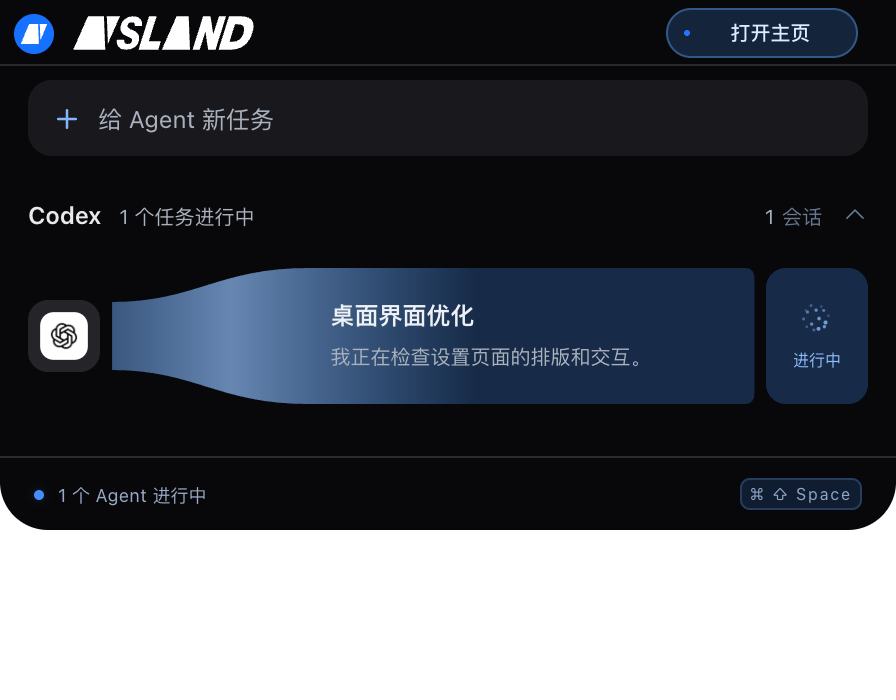
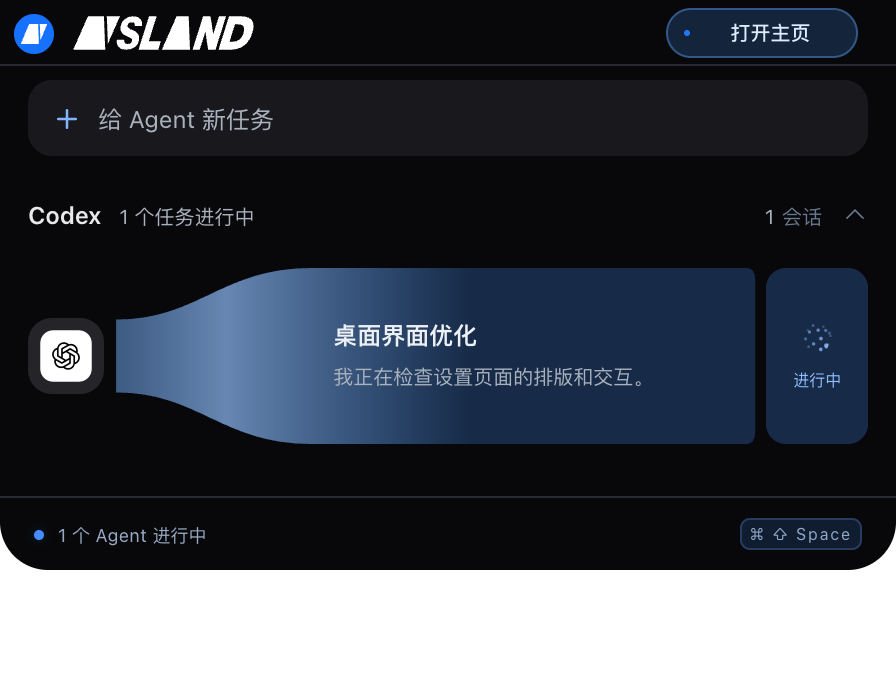
Publish adaptive branch layout and 0.3.30 downloads

Changed region(s): [[0.0, 0.42, 1.0, 0.84], [0.2188, 0.39, 0.2812, 0.42]]

diff --git a/public/docs/index.html b/public/docs/index.html
@@ -1,7 +1,7 @@
-<!doctype html><html lang="zh-CN"><head><meta charset="utf-8"><meta name="viewport" content="width=device-width,initial-scale=1"><title>使用文档 — AISLAND</title><meta name="description" content="AISLAND 的安装、快速体验、Node.js 与 Python 接入、审批安全和本地数据说明。"><meta name="theme-color" content="#ffffff"><link rel="canonical" href="https://calibg.github.io/agent-island/docs/"><link rel="icon" href="../assets/icon.svg?v=integrations-29" type="image/svg+xml"><link rel="stylesheet" href="../marketing.css"><link rel="stylesheet" href="../docs.css"><script src="../site.js" defer></script></head><body class="landing">
-<a class="skip-link" href="#main">跳到文档内容</a><header class="header"><div class="container header-inner"><a class="brand" href="../"><img src="../assets/wordmark.svg?v=integrations-29" width="150" height="28" alt="AISLAND"></a><nav class="nav" id="navigation" aria-label="主导航"><a href="../#product">产品体验</a><a href="../#connect">通用接入</a><a href="./" aria-current="page">使用文档</a></nav><a class="nav-download" href="../#download">下载体验 <span aria-hidden="true">↗</span></a><button class="menu-toggle" aria-expanded="false" aria-controls="navigation" aria-label="展开导航"><span></span><span></span></button></div></header>
+<!doctype html><html lang="zh-CN"><head><meta charset="utf-8"><meta name="viewport" content="width=device-width,initial-scale=1"><title>使用文档 — AISLAND</title><meta name="description" content="AISLAND 的安装、快速体验、Node.js 与 Python 接入、审批安全和本地数据说明。"><meta name="theme-color" content="#ffffff"><link rel="canonical" href="https://calibg.github.io/agent-island/docs/"><link rel="icon" href="../assets/icon.svg?v=adaptive-30" type="image/svg+xml"><link rel="stylesheet" href="../marketing.css"><link rel="stylesheet" href="../docs.css"><script src="../site.js" defer></script></head><body class="landing">
+<a class="skip-link" href="#main">跳到文档内容</a><header class="header"><div class="container header-inner"><a class="brand" href="../"><img src="../assets/wordmark.svg?v=adaptive-30" width="150" height="28" alt="AISLAND"></a><nav class="nav" id="navigation" aria-label="主导航"><a href="../#product">产品体验</a><a href="../#connect">通用接入</a><a href="./" aria-current="page">使用文档</a></nav><a class="nav-download" href="../#download">下载体验 <span aria-hidden="true">↗</span></a><button class="menu-toggle" aria-expanded="false" aria-controls="navigation" aria-label="展开导航"><span></span><span></span></button></div></header>
 <div class="container docs-layout"><aside class="docs-sidebar" aria-label="文档目录"><p class="eyebrow">GETTING STARTED</p><a href="#install">安装与打开</a><a href="#first-use">第一次体验</a><a href="#desktop-agents">桌面 Agent 与启动设置</a><a href="#quickstart">接入你的 Agent</a><a href="#approvals">审批与问答</a><a href="#capabilities">当前支持范围</a><a href="#privacy">数据与隐私</a><a href="#troubleshooting">常见问题</a><a href="./protocol.md">完整 HTTP 协议 ↗</a></aside>
-<main class="docs-content" id="main"><p class="eyebrow">AISLAND / DOCUMENTATION</p><h1>从这里，开始登岛。</h1><p class="docs-lead">安装应用，体验小岛，再把你自己的 Agent 接进来。<br>适用于 v0.3.29 预览版。</p>
+<main class="docs-content" id="main"><p class="eyebrow">AISLAND / DOCUMENTATION</p><h1>从这里，开始登岛。</h1><p class="docs-lead">安装应用，体验小岛，再把你自己的 Agent 接进来。<br>适用于 v0.3.30 预览版。</p>
 <section id="install"><h2>安装与打开</h2><p>应用本身不需要 Node.js 或 Python。Claude Code、Codex、WorkBuddy、Antigravity 的 Hooks 需要 Python 3.9+；对应 SDK 需要 Node.js 20+ 或 Python 3.9+。</p><h3>macOS · Apple Silicon</h3><ol><li>从<a href="../#download">下载页面</a>获取 DMG，打开后将 AISLAND 拖入 Applications（应用程序）。</li><li>从应用程序中启动 AISLAND。</li><li>当前提供 M 系列芯片版本，尚未提供 Intel 安装包。</li></ol><p>桌面界面跟随系统明暗模式。macOS 开关使用 AppKit NSSwitch；Windows 设置使用微软官方 Fluent UI React 组件，并保留系统窗口按钮。</p><h3>Windows · x64</h3><ol><li>下载 EXE 安装程序，按提示安装并打开。</li></ol><div class="doc-note"><p>当前是未签名的预览版，尚未完成 Apple Developer ID 公证或 Windows Authenticode 签名。首次打开可能出现系统来源提示，请先确认下载地址和<a href="../download-checksums.txt">文件校验信息</a>。Mac 已完成自动化验证，Windows 安装包已构建，尚待实机验证。</p></div><p>应用常驻菜单栏或系统托盘。关闭管理窗口不会退出应用；如需完全退出，请使用托盘菜单中的「退出」。</p></section>
 <section class="doc-section" id="first-use"><h2>接入 Claude Code</h2><ol><li>启动 AISLAND，打开「工具接入」，点击 Claude Code 的「安装接入」。这一步需要 Python 3.9+。</li><li>在项目终端运行 <code>claude</code>。已启动的会话可重启一次或用 <code>/hooks</code> 检查配置。</li><li>提交真实任务后，小岛显示运行状态；权限确认和问题回答会返回当前 Claude Code 会话。</li></ol><p>保留你已有的 Hooks、模型和权限配置。只有明确确认才允许操作；小岛不在线或请求超时，回到 Claude Code 原有交互。计划确认仍在终端处理。</p><p>快捷键：macOS 为 Cmd + Shift + Space，Windows 为 Ctrl + Shift + Space。</p></section>
 <section id="desktop-agents"><h2>Codex、Antigravity 与接入助手</h2><p>在应用「工具接入」中打开接入助手。先检查 Python 3.9+ 和 Codex，再安装接入配置。助手保留已有配置并备份，不会更改权限策略。</p><h3>Codex 桌面软件</h3><ol><li>点击「安装 Codex 接入」，等待写入完成。</li><li>点击「打开审核终端」，在 Codex 中输入 <code>/hooks</code>，审核并信任「AISLAND · Codex」条目。审核不会自动进行。</li><li>回到小岛点击「重新检查」。显示已启用并信任后，重启 Codex 桌面端并开启新任务。</li></ol><p>支持真实进度、工具调用、权限确认、结束与中断。问答和计划仍在 Codex 中完成。用户级 Hooks 也会被同一配置下的 CLI 加载；小岛跳转唤起桌面软件，不定位具体聊天。</p><h3>Antigravity</h3><p>在对应接入卡片点击安装，重启 Antigravity 并开启新任务。支持进度、工具调用与后台任务状态。权限和问答在 Antigravity 内处理。</p><h3>登录后自动运行</h3><p>「登录后自动启动小岛」与「启动时运行接入检查」是独立开关，默认关闭。前者运行本机服务；后者只读检查环境与 Hooks 状态，发现未完成步骤时显示助手，不自动批准 Hooks。</p><p>应用先放入应用程序目录或通过 Windows 安装程序安装。系统要求批准登录项时，请在系统设置中完成；未签名 macOS 预览包的登录启动可能受系统限制。界面显示系统实际状态，不能等同于已经实测重启。</p><p>「已配置」不代表已经连接。收到真实 Hook 后才显示事件回执。安装脚本与配置不上传网站。</p></section><section class="doc-section" id="quickstart"><h2>接入你的 Agent</h2><p>先启动 AISLAND，再把 SDK 文件复制到你自己的项目。SDK 会读取当前用户目录下的本机连接信息，向应用报告状态。无需第三方依赖，也不需要填写 AI 服务密钥。</p><div class="doc-downloads"><a class="button" href="../sdk/agent-island.mjs" download>下载 Node.js SDK ↓</a><a class="button" href="../sdk/agent_island.py" download>下载 Python SDK ↓</a><a class="button" href="../sdk/example.mjs" download>下载完整 Node.js 示例 ↓</a></div><h3>Node.js</h3><p>将以下代码保存为 <code>connect.mjs</code>，与 <code>agent-island.mjs</code> 放在同一个目录，然后运行 <code>node connect.mjs</code>。</p><pre><code>import { AgentIsland } from './agent-island.mjs';
@@ -33,10 +33,10 @@ if (result.decision === 'allow') {
 } else {
   await island.complete('操作未获批准。');
 }</code></pre><p>审批最多等待约 10 分钟。超时、断线、会话结束、应用退出或重启，都不会自动批准。接入方必须把错误与 <code>cancel</code> 视为未批准，不应在捕获异常后继续执行待确认操作。</p><p>Node.js SDK 还提供 <code>ask()</code>（单选、多选、自定义回答）、<code>plan()</code>（计划与反馈）和 <code>usage()</code>（真实上报的用量）。可下载完整示例体验双向交互。Python 可用 <code>send()</code> 发送协议定义的其他事件。</p></section>
-<section class="doc-section" id="more-agents"><h2>Gemini、Cursor、MiniMax 与智谱</h2><p>v0.3.29 新增 Gemini CLI 与 Cursor 的官方 Hooks 观察接入。在「工具接入」安装后开启新会话，收到任务事件才显示已收到事件。支持任务和工具状态、最终回复；审批与续发仍在原应用完成。Gemini CLI 与 Gemini 网页是不同的接入。</p><p>MiniMax 提供本地 Plugin V1 Hooks 插件：在「工具接入 → MiniMax → 准备插件」打开文件夹，按 README 安装到当前客户端的本地插件目录并启用。导出插件不代表连接成功；当前不支持 MiniMax 原会话续发。MiniMax Design 与云端网页未包含在此适配范围内。</p><p>智谱 GLM 可通过已配置 GLM 的 Claude Code 接入：安装 Claude Code Hooks 后，根据事件明确提供的模型标识显示智谱，仍续发到同一个 Claude Code 会话。不会自动连接智谱清言或 AutoGLM。</p><p>豆包电脑版、Grok 原有对话的状态同步与后台续发目前尚未接通；公开模型 API 不代表可以读取这些产品里的现有对话。应用会明确显示限制。</p><p>新适配器已通过隔离 Hook 进程与本地桥的协议测试；所有新客户端的用户账户实机验收仍待完成。官方参考：<a href="https://geminicli.com/docs/hooks/reference/">Gemini CLI Hooks</a>、<a href="https://cursor.com/docs/hooks">Cursor Hooks</a>、<a href="https://github.com/MiniMax-AI/minimax-code/blob/main/docs/hooks.md">MiniMax Hooks</a>、<a href="https://docs.bigmodel.cn/cn/coding-plan/best-practice/claude-code">智谱接入指南</a>。</p></section><section class="doc-section" id="capabilities"><h2>当前支持范围</h2><div class="table-scroll"><table><thead><tr><th>功能</th><th>v0.3.29 状态</th></tr></thead><tbody><tr><td>桌面小岛、悬停、快捷键、多显示器</td><td>已提供</td></tr><tr><td>Mac 原生刘海定位与 Force Touch 进入反馈</td><td>已提供；触感需支持的触控板</td></tr><tr><td>事件提示音、音量、安静时段、减少动态效果</td><td>已提供</td></tr><tr><td>会话搜索、筛选、活动记录、归档</td><td>已提供</td></tr><tr><td>审批、问答、计划审阅、用量上报</td><td>已提供</td></tr><tr><td>Node.js / Python / HTTP 通用接入</td><td>已提供</td></tr><tr><td>Claude Code Hooks</td><td>状态、权限确认与问答已提供；计划确认在终端</td></tr><tr><td>Codex / Antigravity</td><td>真实 Hooks 接入；具体能力与首次信任见上文</td></tr><tr><td>接入助手与启动检查</td><td>环境检查、官方信任状态、用户自行选择登录启动</td></tr><tr><td>厂商账户额度自动采集、SSH、手机推送、自动更新</td><td>未提供</td></tr></tbody></table></div><p>应用采用 Electron + React 与 macOS 原生面板模块。Mac 读取刘海安全区并从下沿展开；Windows 从屏幕顶部中央展开，外接屏无需物理刘海。AISLAND 为独立实现，不是 Vibe Island 的官方版本。</p></section>
+<section class="doc-section" id="more-agents"><h2>Gemini、Cursor、MiniMax 与智谱</h2><p>v0.3.29 新增 Gemini CLI 与 Cursor 的官方 Hooks 观察接入。在「工具接入」安装后开启新会话，收到任务事件才显示已收到事件。支持任务和工具状态、最终回复；审批与续发仍在原应用完成。Gemini CLI 与 Gemini 网页是不同的接入。</p><p>MiniMax 提供本地 Plugin V1 Hooks 插件：在「工具接入 → MiniMax → 准备插件」打开文件夹，按 README 安装到当前客户端的本地插件目录并启用。导出插件不代表连接成功；当前不支持 MiniMax 原会话续发。MiniMax Design 与云端网页未包含在此适配范围内。</p><p>智谱 GLM 可通过已配置 GLM 的 Claude Code 接入：安装 Claude Code Hooks 后，根据事件明确提供的模型标识显示智谱，仍续发到同一个 Claude Code 会话。不会自动连接智谱清言或 AutoGLM。</p><p>豆包电脑版、Grok 原有对话的状态同步与后台续发目前尚未接通；公开模型 API 不代表可以读取这些产品里的现有对话。应用会明确显示限制。</p><p>新适配器已通过隔离 Hook 进程与本地桥的协议测试；所有新客户端的用户账户实机验收仍待完成。官方参考：<a href="https://geminicli.com/docs/hooks/reference/">Gemini CLI Hooks</a>、<a href="https://cursor.com/docs/hooks">Cursor Hooks</a>、<a href="https://github.com/MiniMax-AI/minimax-code/blob/main/docs/hooks.md">MiniMax Hooks</a>、<a href="https://docs.bigmodel.cn/cn/coding-plan/best-practice/claude-code">智谱接入指南</a>。</p></section><section class="doc-section" id="capabilities"><h2>当前支持范围</h2><p>v0.3.30 的分叉根据任务活动调整高度：活跃任务更突出，暂停、完成和长期无进展的会话更紧凑。左侧图标区域随任务量适度增长，始终小于分支总高度的 2/3。五分钟没有新进展只影响显示空间，不改变任务状态；鼠标操作或输入时固定布局，原有蓝色动效保留。</p><div class="table-scroll"><table><thead><tr><th>功能</th><th>v0.3.30 状态</th></tr></thead><tbody><tr><td>桌面小岛、悬停、快捷键、多显示器</td><td>已提供</td></tr><tr><td>Mac 原生刘海定位与 Force Touch 进入反馈</td><td>已提供；触感需支持的触控板</td></tr><tr><td>事件提示音、音量、安静时段、减少动态效果</td><td>已提供</td></tr><tr><td>会话搜索、筛选、活动记录、归档</td><td>已提供</td></tr><tr><td>审批、问答、计划审阅、用量上报</td><td>已提供</td></tr><tr><td>Node.js / Python / HTTP 通用接入</td><td>已提供</td></tr><tr><td>Claude Code Hooks</td><td>状态、权限确认与问答已提供；计划确认在终端</td></tr><tr><td>Codex / Antigravity</td><td>真实 Hooks 接入；具体能力与首次信任见上文</td></tr><tr><td>接入助手与启动检查</td><td>环境检查、官方信任状态、用户自行选择登录启动</td></tr><tr><td>厂商账户额度自动采集、SSH、手机推送、自动更新</td><td>未提供</td></tr></tbody></table></div><p>应用采用 Electron + React 与 macOS 原生面板模块。Mac 读取刘海安全区并从下沿展开；Windows 从屏幕顶部中央展开，外接屏无需物理刘海。AISLAND 为独立实现，不是 Vibe Island 的官方版本。</p></section>
 <section class="doc-section" id="privacy"><h2>数据与隐私</h2><p>桌面应用的桥接服务只监听 <code>127.0.0.1</code>，不向局域网开放。请求需通过本机令牌验证，并拒绝携带浏览器 Origin 的请求。不要公开或分享 <code>connection.json</code>。</p><p>会话文本与操作预览保存在 <code>~/.agent-island/state.json</code>。记录默认保留 7 天，下次启动时清理过期记录。在偏好设置中可打开数据目录。</p><p>AISLAND 默认只在本机运行，不设置遥测。主动启用手机连接后，进度摘要和手机指令在设备上用 AES-256-GCM 加密，再经过你配置的 Cloudflare Workers / D1 同步；服务端不持有解密密钥。电脑超过 24 小时不再同步时，服务会清理旧连接。手机配对信息保存在设备本地，配对链接相当于访问凭据，不要分享。你所接入的 AI 工具可能有自己的网络行为与数据策略，请以对应工具的设置为准。</p><p>本官网不嵌入分析追踪器，也不设置账户系统。网页由 GitHub Pages 托管，安装包通过 GitHub Releases 分发；访问与下载产生的基础服务日志由 GitHub 按其<a href="https://docs.github.com/en/site-policy/privacy-policies/github-general-privacy-statement">隐私声明</a>处理。</p></section>
 <section class="doc-section" id="mobile"><h2>手机同步与控制</h2><p>自部署用户可下载<a href="https://github.com/CaliBG/agent-island/releases/download/v0.3.0/Agent-Island-Sync-0.1.0.zip">免费同步服务部署包</a>，按其中 README 设置 Workers 和 D1。</p><ol><li>在电脑打开「设置 → 手机与远程」，配置你自己的 Cloudflare Workers 免费同步服务，然后生成配对码。已配置服务的电脑可直接生成二维码。</li><li>手机打开<a href="../mobile/">移动端</a>，扫码或粘贴配对链接。二维码仅用于配对，有效期 10 分钟。</li><li>iPhone 可通过 Safari「分享 → 添加到主屏幕」免费使用。Android 可从官网下载 APK 安装；原生预览版尚待真机验证。</li><li>按需在电脑分别允许「发送 Agent 任务」「调整保持唤醒」「打开远程控制软件」。三项默认关闭。</li></ol><p>前台约 5 秒刷新，手机进入后台后暂停轮询。电脑需运行 AISLAND 并联网；离线时只能查看最后同步的数据。发送后的“已排队”不等于执行成功，请以电脑返回的回执为准。保持唤醒不会解除手动锁屏，远程软件仍使用自身的登录和验证。</p><p>同步后端使用 Workers / D1 免费额度，超额时可能暂停，不会自动升级付费。AI 工具本身的订阅、额度以及第三方远程软件的收费由各厂商决定。iOS 原生工程已编译验证，尚未提供 App Store / TestFlight 安装。</p></section>
 <section class="doc-section" id="task-input"><h2>从小岛发送任务</h2><p>点击「给 Agent 新任务」，选择 Agent 和原对话；鼠标靠近分支右侧的状态按钮会自动弹出输入气泡；点击输入框后取得键盘焦点，已结束的会话也可正常输入。Codex、Claude Code 支持原会话续发，保留上下文；运行中可以排队发送，任务完成后自动续发，每个会话最多一条，可撤回编辑。应用重启或当前任务异常后，队列会暂停，需确认后重新提交。</p><p>Codex 使用官方 app-server 恢复同一个会话，桌面客户端可能需要重新打开对话才能显示新内容；Claude Code 使用官方 Agent SDK。两者沿用本机已有登录，不要求另外填写 API Key。需要审批时，在小岛逐次确认。</p></section>
 <section class="doc-section" id="workbuddy"><h2>接入 WorkBuddy</h2><ol><li>打开「设置 → Agent 接入 → WorkBuddy → 接入」。</li><li>在 WorkBuddy 审核新增 Hooks，再开启新会话；旧会话可能需要重启后加载配置。</li><li>开始真实任务后，设置页会显示「已收到事件」和时间；「已配置」只代表配置已写入。</li></ol><p>当前同步任务、工具调用、结束状态。v0.3.10 增加「填入原对话」：核对会话后通过系统辅助功能填入输入框，已有草稿不会覆盖，发送仍需在 WorkBuddy 确认。Mac 首次使用需允许辅助功能；适配 WorkBuddy 5.11.2，Mac 已由用户验证文字进入正确原对话框；Windows 实机仍待验收。Antigravity 和其他通用接入尚不支持可靠续发，输入框会明确提示。审批与问答仍在 WorkBuddy 完成。安装器会备份配置并保留其他 Hooks 和权限规则。</p></section><section class="doc-section" id="troubleshooting"><h2>常见问题</h2><h3>示例提示找不到 connection.json</h3><p>先打开 AISLAND，确认「工具接入」显示本地连接正常。SDK 和应用需要在同一台电脑、同一用户下运行。自定义数据路径时，可使用 <code>AGENT_ISLAND_HOME</code> 指向相应目录。</p><h3>小岛没有显示在预期位置</h3><p>使用快捷键唤起，或从托盘菜单打开管理窗口，检查偏好设置中的显示器与浮动方式。显示器断开后，应用会回退到可用屏幕。</p><h3>MacBook 没有感觉到震动</h3><p>在设置 → 外观与交互中开启「触控板触感」，将手指放在支持 Force Touch 的触控板上，点击「试一下」。每次进入只发送一次触感，默认清脆模式，可切换标准或轻触。系统公开接口不支持改变单次震动振幅。区域内移动不重复，移出再进入重新触发。声音开关与触感开关相互独立，普通鼠标本身不会震动。</p><h3>无法跳回终端</h3><p>macOS 首次定位 Terminal / iTerm2 会话可能需要系统自动化权限。Windows 在管理员窗口或某些全屏应用下可能拒绝切换焦点。若无法定位会话，可先从工具界面打开对应项目目录。</p><h3>发现其他问题</h3><p>请通过 <a href="https://github.com/CaliBG/agent-island/issues">GitHub Issues</a> 描述操作系统、应用版本与复现步骤。提交截图或日志前，请移除连接令牌、个人路径和项目敏感内容。</p></section>
-<div class="docs-footer">AISLAND v0.3.29 · <a href="../">返回官网</a> · <a href="https://github.com/CaliBG/agent-island/releases/tag/v0.3.29">查看发布记录</a></div></main></div>
+<div class="docs-footer">AISLAND v0.3.30 · <a href="../">返回官网</a> · <a href="https://github.com/CaliBG/agent-island/releases/tag/v0.3.30">查看发布记录</a></div></main></div>
 </body></html>

diff --git a/public/index.html b/public/index.html
@@ -5,24 +5,24 @@
 <title>AISLAND — 少一点切换，多一点专注。</title>
 <meta name="description" content="把 Claude Code、Codex、WorkBuddy 和 Antigravity 的工作进度带到屏幕顶部。真实事件、本地运行、按需回应。下载适用于 macOS 和 Windows 的 AISLAND。">
 <meta name="theme-color" content="#ffffff"><link rel="canonical" href="https://calibg.github.io/agent-island/">
-<meta property="og:type" content="website"><meta property="og:title" content="AISLAND — 少一点切换，多一点专注。"><meta property="og:description" content="Agent 继续工作，你继续专注。macOS + Windows 桌面灵动岛。"><meta property="og:url" content="https://calibg.github.io/agent-island/"><meta property="og:image" content="https://calibg.github.io/agent-island/assets/social.png?v=integrations-29"><meta name="twitter:card" content="summary_large_image">
-<link rel="icon" type="image/svg+xml" href="./assets/icon.svg?v=integrations-29"><link rel="preload" as="font" href="./assets/departure-mono.woff2" type="font/woff2" crossorigin>
+<meta property="og:type" content="website"><meta property="og:title" content="AISLAND — 少一点切换，多一点专注。"><meta property="og:description" content="Agent 继续工作，你继续专注。macOS + Windows 桌面灵动岛。"><meta property="og:url" content="https://calibg.github.io/agent-island/"><meta property="og:image" content="https://calibg.github.io/agent-island/assets/social.png?v=adaptive-30"><meta name="twitter:card" content="summary_large_image">
+<link rel="icon" type="image/svg+xml" href="./assets/icon.svg?v=adaptive-30"><link rel="preload" as="font" href="./assets/departure-mono.woff2" type="font/woff2" crossorigin>
 <link rel="stylesheet" href="./marketing.css"><link rel="stylesheet" href="./ui/hover-buttons.css"><script src="./site.js" defer></script><script type="module" src="./ui/hover-buttons.js"></script>
 </head>
 <body>
 <a class="skip-link" href="#main">跳到主要内容</a>
-<header class="header"><div class="container header-inner"><a href="./" class="brand" aria-label="AISLAND 首页"><img class="aisland-wordmark" src="./assets/wordmark.svg?v=integrations-29" width="150" height="28" alt="AISLAND"></a><nav class="nav" aria-label="主导航"><a href="#product">产品</a><a href="#connect">接入</a><a href="./mobile/">手机端</a><a href="./docs/">文档 ↗</a></nav><a class="nav-download" href="#download">免费下载 <span aria-hidden="true">↗</span></a></div></header>
+<header class="header"><div class="container header-inner"><a href="./" class="brand" aria-label="AISLAND 首页"><img class="aisland-wordmark" src="./assets/wordmark.svg?v=adaptive-30" width="150" height="28" alt="AISLAND"></a><nav class="nav" aria-label="主导航"><a href="#product">产品</a><a href="#connect">接入</a><a href="./mobile/">手机端</a><a href="./docs/">文档 ↗</a></nav><a class="nav-download" href="#download">免费下载 <span aria-hidden="true">↗</span></a></div></header>
 <main id="main">
 <section class="hero container" aria-labelledby="hero-title">
-<div class="hero-copy"><a class="release-link" href="#download"><span class="status-dot"></span>v0.3.29 现已推出 <span>↗</span></a><h1 id="hero-title">专注，<br><span>不必切换。</span></h1><p class="hero-description">让 Agent 继续工作。<br>需要你的时刻，屏幕顶部见。</p><div class="hero-actions"><span data-hover-button data-variant="light"><a class="button-fallback" href="#download">下载 AISLAND</a></span><a class="quiet-link" href="#product">看看小岛 <span aria-hidden="true">↓</span></a></div><p class="hero-note">macOS + Windows <span>·</span> 无需注册</p></div>
-<div class="hero-visual"><div class="laptop-mockup" role="group" aria-label="MacBook 比例样机，嵌入真实软件截图"><div class="laptop-screen"><div class="screen-toolbar" aria-hidden="true"><span>AISLAND</span><span>本机连接</span></div><div class="device-notch" aria-hidden="true"></div><div class="screen-content"><img src="./assets/sessions.png?v=integrations-29" alt="AISLAND 真实会话管理界面" width="2200" height="1560" fetchpriority="high"></div></div><div class="laptop-base" aria-hidden="true"><i></i></div><div class="laptop-foot" aria-hidden="true"></div></div><p class="visual-caption">你的工具，照常工作。<span>你的注意力，自由。</span></p></div>
+<div class="hero-copy"><a class="release-link" href="#download"><span class="status-dot"></span>v0.3.30 现已推出 <span>↗</span></a><h1 id="hero-title">专注，<br><span>不必切换。</span></h1><p class="hero-description">让 Agent 继续工作。<br>需要你的时刻，屏幕顶部见。</p><div class="hero-actions"><span data-hover-button data-variant="light"><a class="button-fallback" href="#download">下载 AISLAND</a></span><a class="quiet-link" href="#product">看看小岛 <span aria-hidden="true">↓</span></a></div><p class="hero-note">macOS + Windows <span>·</span> 无需注册</p></div>
+<div class="hero-visual"><div class="laptop-mockup" role="group" aria-label="MacBook 比例样机，嵌入真实软件截图"><div class="laptop-screen"><div class="screen-toolbar" aria-hidden="true"><span>AISLAND</span><span>本机连接</span></div><div class="device-notch" aria-hidden="true"></div><div class="screen-content"><img src="./assets/sessions.png?v=adaptive-30" alt="AISLAND 真实会话管理界面" width="2200" height="1560" fetchpriority="high"></div></div><div class="laptop-base" aria-hidden="true"><i></i></div><div class="laptop-foot" aria-hidden="true"></div></div><p class="visual-caption">你的工具，照常工作。<span>你的注意力，自由。</span></p></div>
 </section>
 <div class="compatibility container"><span>与你的 Agent 一起</span><div><span class="agent-wordmark claude-wordmark">✳ <b>Claude Code</b></span><span class="agent-wordmark">⌘ <b>Codex</b></span><span class="agent-wordmark">⌁ <b>Antigravity</b></span></div><a href="#connect">↗</a></div>
-<section id="product" class="product-section container" aria-labelledby="product-title"><div class="section-heading"><div><p class="eyebrow">01 / 小岛，很轻。</p><h2 id="product-title">抬头，<em>即见。</em></h2></div><p class="section-intro">进度、审批、回应。<br>出现得刚刚好。</p></div><div class="product-editorial"><figure class="island-figure"><div class="screen-edge" aria-hidden="true"><span></span><i></i><span></span></div><img src="./assets/island-live.png?v=integrations-29" alt="屏幕顶部展开的小岛，显示示例 Codex 会话" width="896" height="700" loading="lazy"><figcaption>软件界面截图</figcaption></figure><div class="product-benefits"><article><span>01</span><h3>一眼看清进度</h3></article><article><span>02</span><h3>一次回应请求</h3></article><article><span>03</span><h3>一瞬回到专注</h3></article><a class="quiet-link" href="#download">把小岛放上桌面 ↗</a></div></div></section>
+<section id="product" class="product-section container" aria-labelledby="product-title"><div class="section-heading"><div><p class="eyebrow">01 / 小岛，很轻。</p><h2 id="product-title">抬头，<em>即见。</em></h2></div><p class="section-intro">进度、审批、回应。<br>出现得刚刚好。</p></div><div class="product-editorial"><figure class="island-figure"><div class="screen-edge" aria-hidden="true"><span></span><i></i><span></span></div><img src="./assets/island-live.png?v=adaptive-30" alt="屏幕顶部展开的小岛，显示示例 Codex 会话" width="896" height="700" loading="lazy"><figcaption>软件界面截图</figcaption></figure><div class="product-benefits"><article><span>01</span><h3>一眼看清进度</h3></article><article><span>02</span><h3>一次回应请求</h3></article><article><span>03</span><h3>一瞬回到专注</h3></article><a class="quiet-link" href="#download">把小岛放上桌面 ↗</a></div></div></section>
 <section class="focus-story" aria-labelledby="focus-title"><div class="container story-heading"><p class="eyebrow" id="focus-title">让注意力，留在此刻。</p><button id="crawl-toggle" type="button" aria-pressed="false">暂停动效 <span aria-hidden="true">Ⅱ</span></button></div><div class="crawl-viewport" aria-hidden="true"><div class="crawl-plane"><div class="crawl-copy"><p>少一点切换。</p><p>多一点专注。</p><p>让工作继续。</p><p>让进度来找你。</p><p>少一点切换。</p><p>多一点专注。</p></div></div></div><p class="sr-only">让 Agent 继续工作，把注意力留给手头的事。任务需要你的决定时，小岛会出现。</p><div class="story-bottom container"><span>ONE QUIET ISLAND.</span><a class="quiet-link" href="#download">开始专注 ↗</a></div></section>
-<section class="workspace-section container" aria-labelledby="workspace-title"><div class="section-heading"><div><p class="eyebrow">02 / 看见全貌。</p><h2 id="workspace-title">简单，也<em>完整。</em></h2></div><div class="product-tabs" role="tablist" aria-label="应用界面展示"><button role="tab" aria-selected="true" id="tab-sessions" aria-controls="product-panel" data-view="sessions">会话管理</button><button role="tab" aria-selected="false" tabindex="-1" id="tab-integrations" aria-controls="product-panel" data-view="integrations">工具接入</button><button role="tab" aria-selected="false" tabindex="-1" id="tab-settings" aria-controls="product-panel" data-view="settings">个人偏好</button></div></div><figure class="workspace-window" id="product-panel" role="tabpanel" aria-labelledby="tab-sessions" tabindex="0"><div class="window-rim"><span class="window-dots" aria-hidden="true"><i></i><i></i><i></i></span><span>AISLAND</span><span>界面截图 · 示例会话</span></div><img id="product-image" src="./assets/sessions.png?v=integrations-29" width="2200" height="1560" loading="lazy" alt="AISLAND 真实会话管理界面"></figure><div class="product-caption"><p id="product-description">每个 Agent 一个位置，展开查看会话分支。</p><a href="#download">下载体验 ↗</a></div></section>
+<section class="workspace-section container" aria-labelledby="workspace-title"><div class="section-heading"><div><p class="eyebrow">02 / 看见全貌。</p><h2 id="workspace-title">简单，也<em>完整。</em></h2></div><div class="product-tabs" role="tablist" aria-label="应用界面展示"><button role="tab" aria-selected="true" id="tab-sessions" aria-controls="product-panel" data-view="sessions">会话管理</button><button role="tab" aria-selected="false" tabindex="-1" id="tab-integrations" aria-controls="product-panel" data-view="integrations">工具接入</button><button role="tab" aria-selected="false" tabindex="-1" id="tab-settings" aria-controls="product-panel" data-view="settings">个人偏好</button></div></div><figure class="workspace-window" id="product-panel" role="tabpanel" aria-labelledby="tab-sessions" tabindex="0"><div class="window-rim"><span class="window-dots" aria-hidden="true"><i></i><i></i><i></i></span><span>AISLAND</span><span>界面截图 · 示例会话</span></div><img id="product-image" src="./assets/sessions.png?v=adaptive-30" width="2200" height="1560" loading="lazy" alt="AISLAND 真实会话管理界面"></figure><div class="product-caption"><p id="product-description">每个 Agent 一个位置，展开查看会话分支。</p><a href="#download">下载体验 ↗</a></div></section>
 <section id="connect" class="connection-section container" aria-labelledby="connect-title"><div class="section-heading"><div><p class="eyebrow">03 / 连接一次。</p><h2 id="connect-title">此后，<em>照常工作。</em></h2></div><a href="./docs/#desktop-agents" class="quiet-link">跟随接入助手，开始连接 ↗</a></div><div class="integration-table"><article><div class="integration-name"><span>✳</span><h3>Claude Code</h3></div><p>进度 · 审批 · 问答</p><a href="./docs/#first-use" aria-label="Claude Code 接入说明">↗</a></article><article><div class="integration-name"><span>⌘</span><h3>Codex</h3></div><p>进度 · 审批 · 首次信任</p><a href="./docs/#desktop-agents" aria-label="Codex 接入说明">↗</a></article><article><div class="integration-name"><span>⌁</span><h3>Antigravity</h3></div><p>进度 · 工具 · 后台状态</p><a href="./docs/#desktop-agents" aria-label="Antigravity 接入说明">↗</a></article></div><div class="connection-note"><span>是否随登录启动，由你选择。</span><a href="./docs/#more-agents">Gemini · Cursor · MiniMax 接入 ↗</a></div></section>
-<section id="download" class="download-section" aria-labelledby="download-title"><div class="container"><div class="download-heading"><p class="eyebrow">你的下一次专注，从这里开始。</p><h2 id="download-title">给桌面，<em>一座小岛。</em></h2><p>本地运行。无需注册。免费预览。</p></div><div class="download-grid"><article class="download-card"><div class="download-title"><span aria-hidden="true">⌘</span><div><h3>macOS</h3><p>Apple Silicon · M 系列</p></div><span class="version-label">0.3.29</span></div><span data-hover-button data-full-width="true" data-variant="light"><a class="button-fallback" href="https://github.com/CaliBG/agent-island/releases/download/v0.3.29/Agent-Island-0.3.29-mac-arm64.dmg">下载 Mac 版</a></span><div class="download-meta"><span>DMG · 127.3 MiB</span><a href="./docs/#install">安装说明 ↗</a></div></article><article class="download-card"><div class="download-title"><span aria-hidden="true">⊞</span><div><h3>Windows</h3><p>x64 · 安装版</p></div><span class="version-label">0.3.29</span></div><span data-hover-button data-full-width="true"><a class="button-fallback" href="https://github.com/CaliBG/agent-island/releases/download/v0.3.29/Agent-Island-0.3.29-win-x64.exe">下载 Windows 版</a></span><div class="download-meta"><span>EXE · 124.9 MiB</span><a href="./docs/#install">安装说明 ↗</a></div></article></div><div class="mobile-download"><div><strong>把进度带在身边。</strong><p>iPhone 添加到主屏幕 · Android 安装 APK</p></div><a href="./mobile/">打开手机端 ↗</a><a href="https://github.com/CaliBG/agent-island/releases/download/v0.3.23/AISLAND-Mobile-0.1.4-android.apk">下载 Android ↗</a></div><div class="release-note"><p>未签名预览版 · Hooks 需要 Python 3.9+ · Windows 实机待验证</p><div><a href="https://github.com/CaliBG/agent-island/releases/tag/v0.3.29">版本说明 ↗</a><a href="./download-checksums.txt">SHA-256 校验 ↗</a></div></div></div></section>
+<section id="download" class="download-section" aria-labelledby="download-title"><div class="container"><div class="download-heading"><p class="eyebrow">你的下一次专注，从这里开始。</p><h2 id="download-title">给桌面，<em>一座小岛。</em></h2><p>本地运行。无需注册。免费预览。</p></div><div class="download-grid"><article class="download-card"><div class="download-title"><span aria-hidden="true">⌘</span><div><h3>macOS</h3><p>Apple Silicon · M 系列</p></div><span class="version-label">0.3.30</span></div><span data-hover-button data-full-width="true" data-variant="light"><a class="button-fallback" href="https://github.com/CaliBG/agent-island/releases/download/v0.3.30/Agent-Island-0.3.30-mac-arm64.dmg">下载 Mac 版</a></span><div class="download-meta"><span>DMG · 127.3 MiB</span><a href="./docs/#install">安装说明 ↗</a></div></article><article class="download-card"><div class="download-title"><span aria-hidden="true">⊞</span><div><h3>Windows</h3><p>x64 · 安装版</p></div><span class="version-label">0.3.30</span></div><span data-hover-button data-full-width="true"><a class="button-fallback" href="https://github.com/CaliBG/agent-island/releases/download/v0.3.30/Agent-Island-0.3.30-win-x64.exe">下载 Windows 版</a></span><div class="download-meta"><span>EXE · 125.0 MiB</span><a href="./docs/#install">安装说明 ↗</a></div></article></div><div class="mobile-download"><div><strong>把进度带在身边。</strong><p>iPhone 添加到主屏幕 · Android 安装 APK</p></div><a href="./mobile/">打开手机端 ↗</a><a href="https://github.com/CaliBG/agent-island/releases/download/v0.3.23/AISLAND-Mobile-0.1.4-android.apk">下载 Android ↗</a></div><div class="release-note"><p>未签名预览版 · Hooks 需要 Python 3.9+ · Windows 实机待验证</p><div><a href="https://github.com/CaliBG/agent-island/releases/tag/v0.3.30">版本说明 ↗</a><a href="./download-checksums.txt">SHA-256 校验 ↗</a></div></div></div></section>
 
-</main><footer class="footer container"><a class="brand" href="./"><img class="aisland-wordmark" src="./assets/wordmark.svg?v=integrations-29" width="150" height="28" alt="AISLAND"></a><p>© 2026</p><div><a href="./docs/">文档</a><a href="./docs/#privacy">隐私</a><a href="https://github.com/CaliBG/agent-island">GitHub ↗</a></div><a href="#main" aria-label="回到顶部">↑</a></footer><div class="toast" role="status" aria-live="polite"></div>
+</main><footer class="footer container"><a class="brand" href="./"><img class="aisland-wordmark" src="./assets/wordmark.svg?v=adaptive-30" width="150" height="28" alt="AISLAND"></a><p>© 2026</p><div><a href="./docs/">文档</a><a href="./docs/#privacy">隐私</a><a href="https://github.com/CaliBG/agent-island">GitHub ↗</a></div><a href="#main" aria-label="回到顶部">↑</a></footer><div class="toast" role="status" aria-live="polite"></div>
 </body></html>

diff --git a/public/site.js b/public/site.js
@@ -23,7 +23,7 @@ const views = {
 function selectView(name) {
   const view = views[name];
   $$('.product-tabs [role=tab]').forEach(tab => {tab.setAttribute('aria-selected', String(tab.dataset.view === name));tab.tabIndex = tab.dataset.view === name ? 0 : -1;});
-  $('#product-image').src = './assets/' + view.image + '?v=integrations-29';
+  $('#product-image').src = './assets/' + view.image + '?v=adaptive-30';
   $('#product-image').alt = view.alt;
   $('#product-description').textContent = view.text;
   $('#product-panel').setAttribute('aria-labelledby','tab-'+name);
